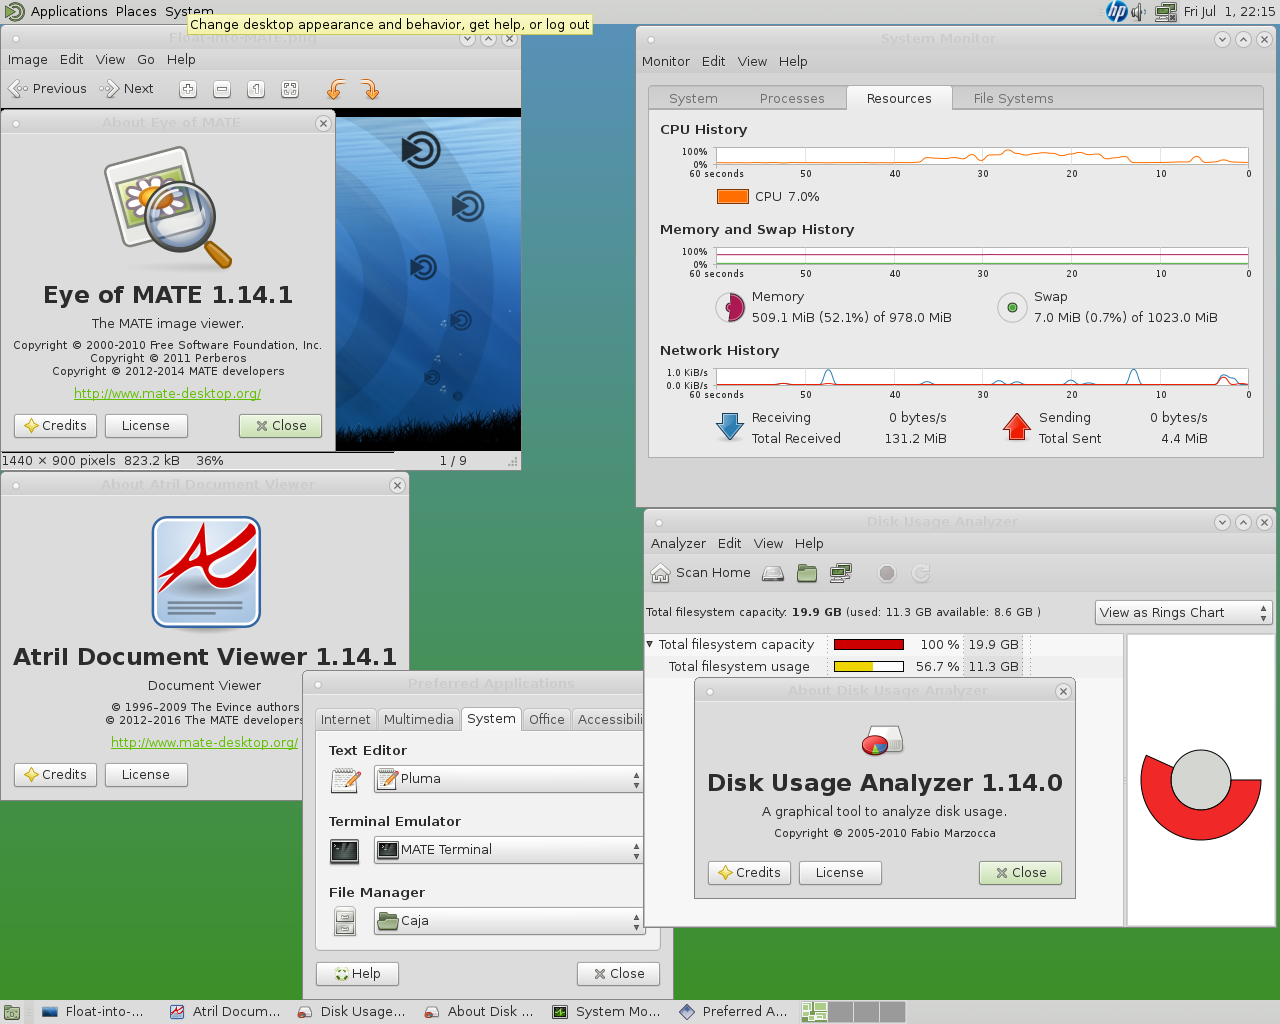
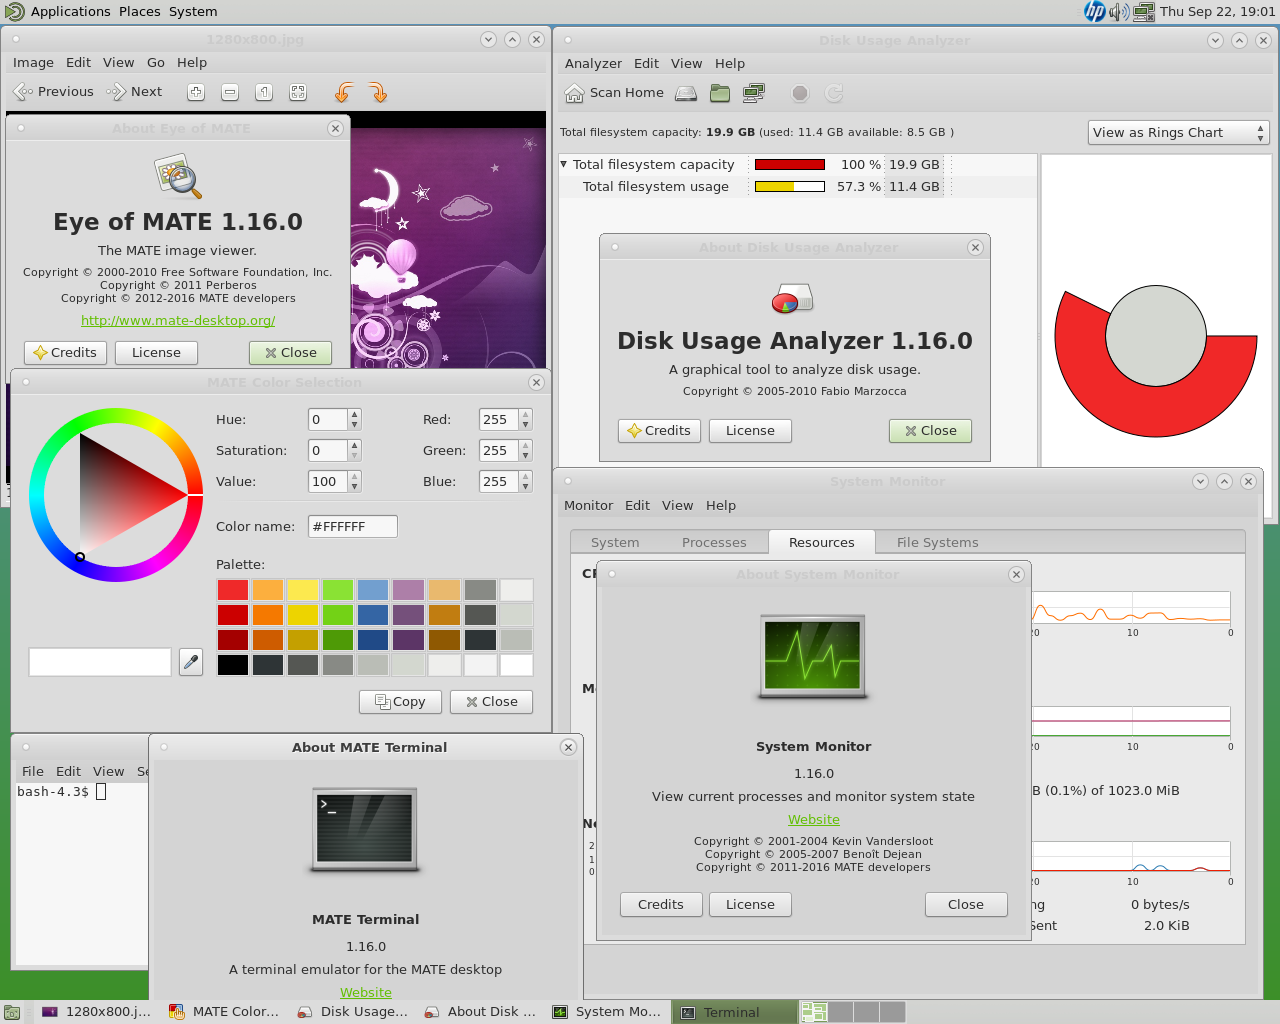
Updated for MATE 1.16 screenshots.

diff --git a/index.html b/index.html
@@ -33,7 +33,7 @@ type='text/css'>
            <p>The scripts are hosted in a <a
              href="https://github.com/mateslackbuilds/msb">Git repo</a> so feel
            free to test and offer suggestions, improvements, patches, etc.
-           Here are some obligatory screenshots of MATE 1.14 with its default
+           Here are some obligatory screenshots of MATE 1.16 with its default
            theme and background running on Slackware64-14.2:</p>
            <div id="screenshots">
              <a href="images/mate1.png"><img class="image"
